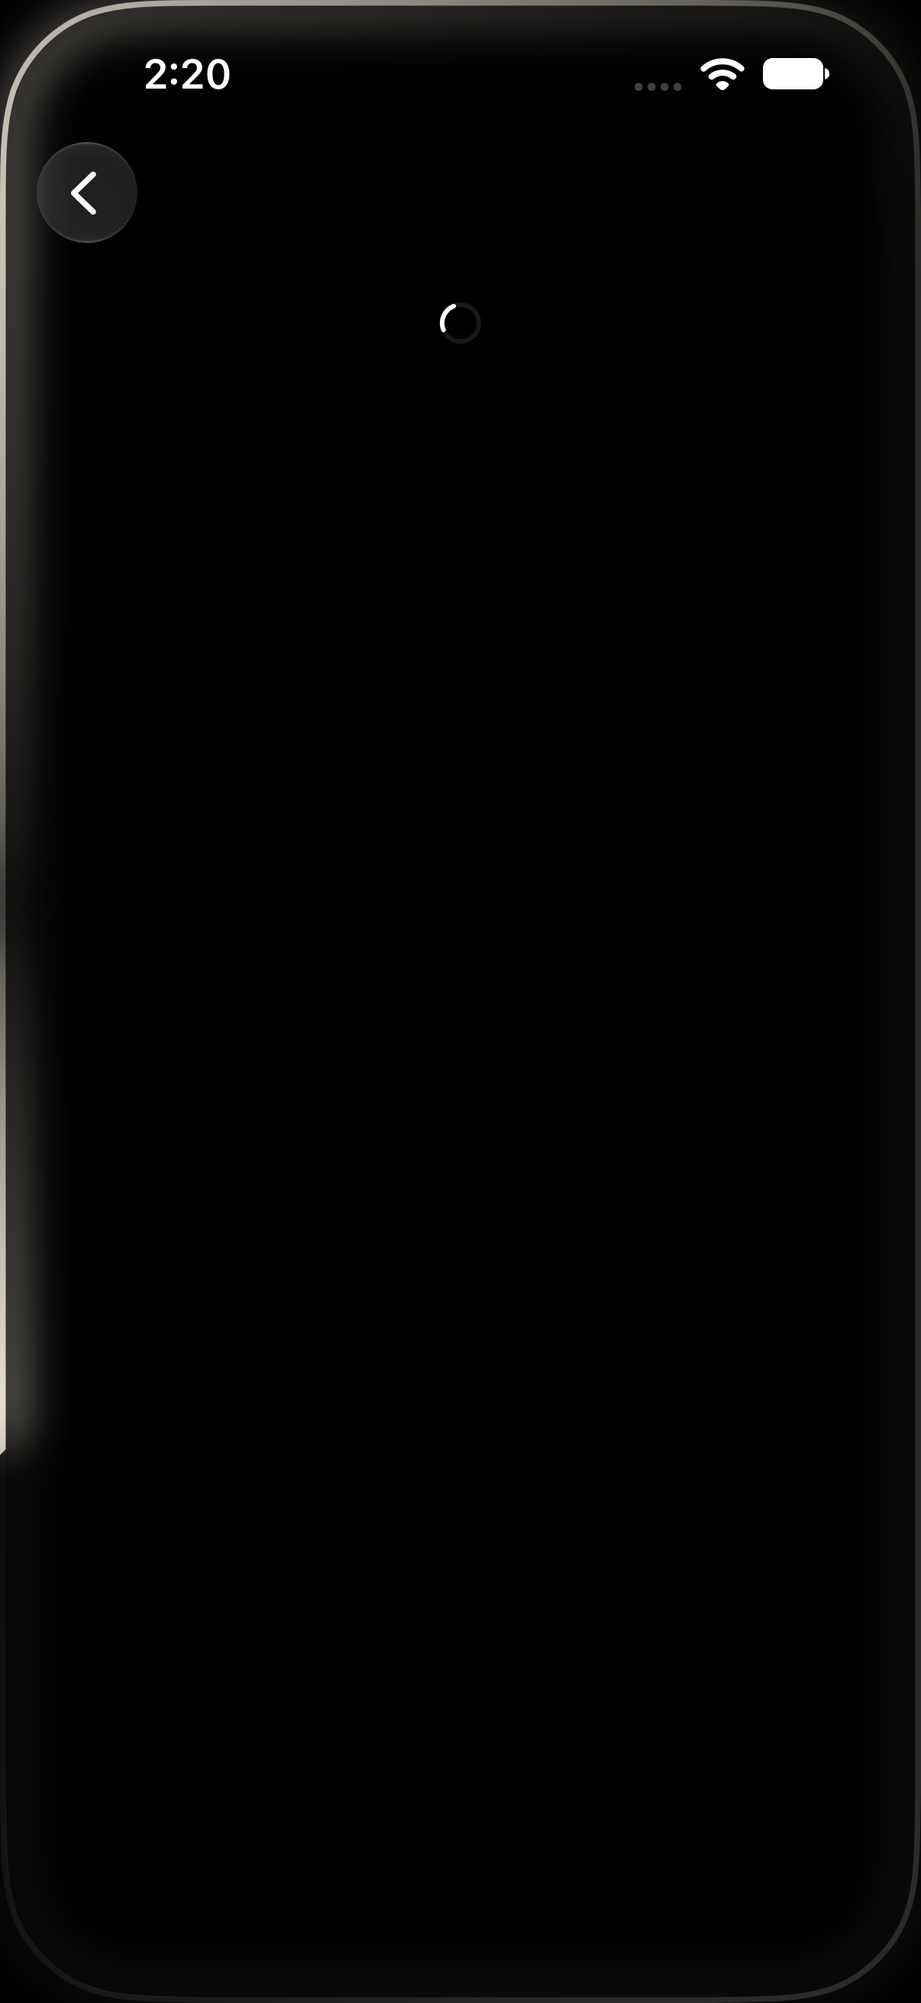
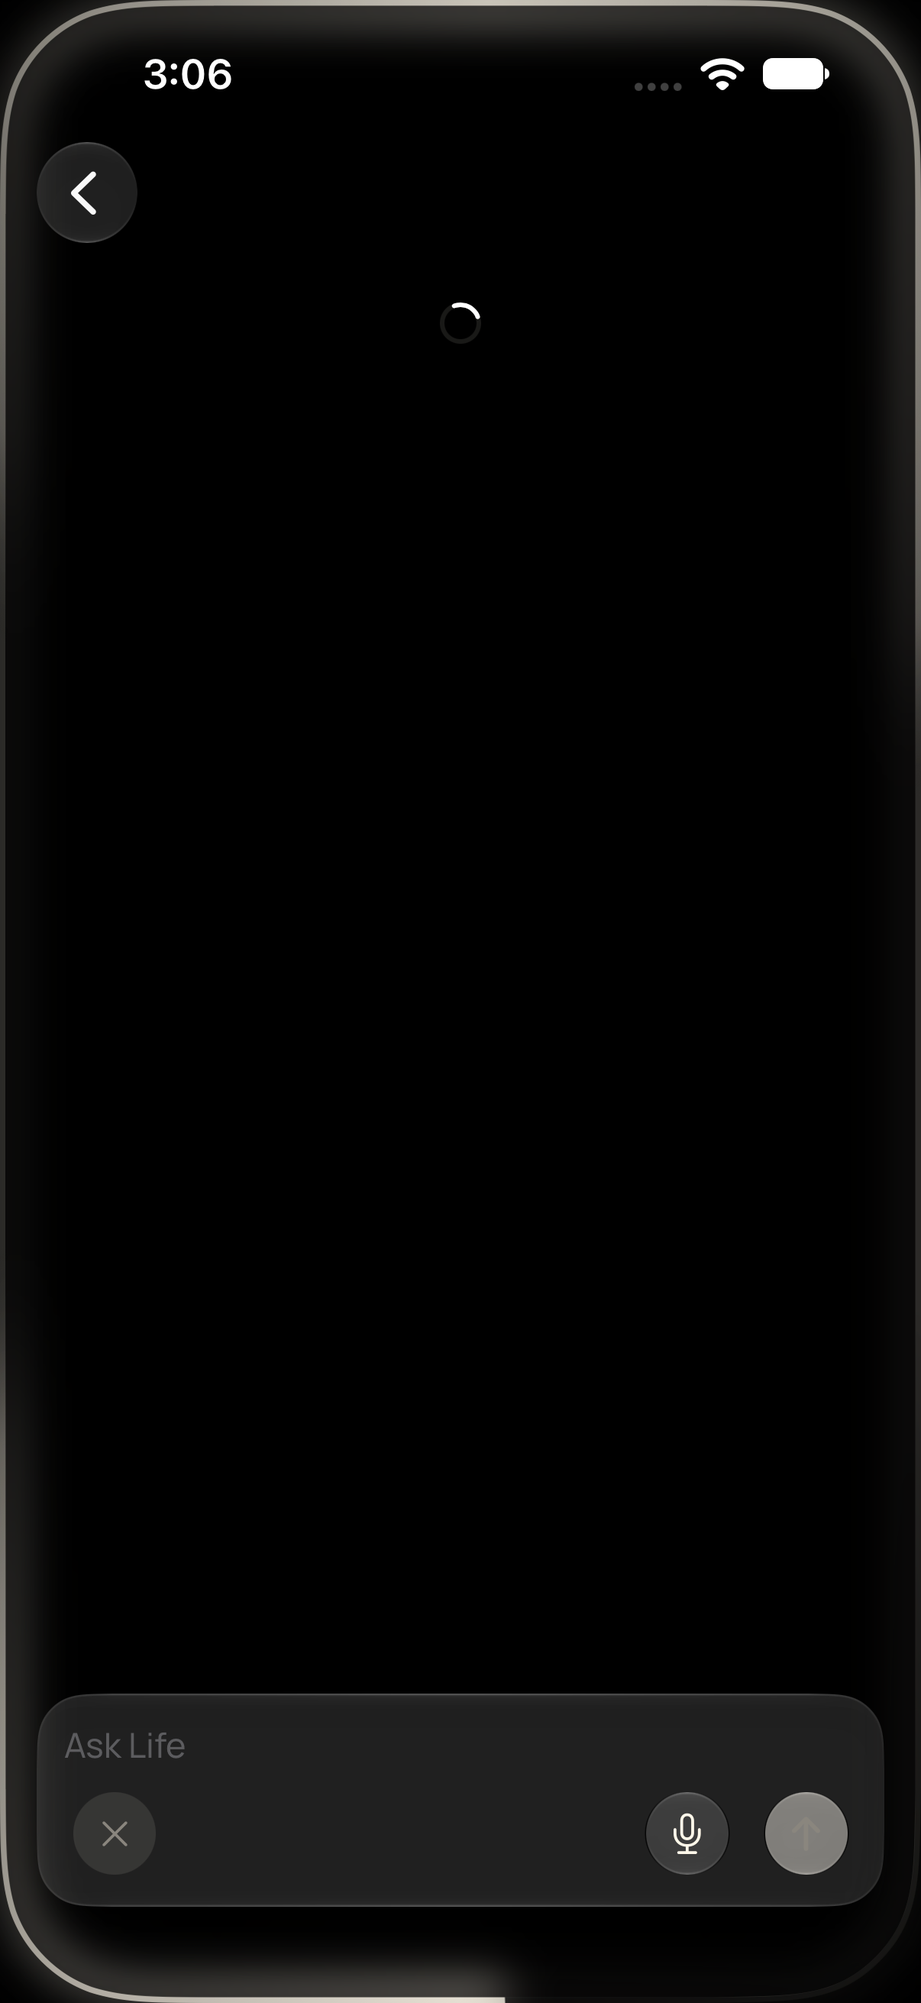
Navigation review: field on every screen, one way to open a profile, asks brought to the bottom, one pairing at a time (LinkAction), Close on Settings

diff --git a/apps/lifelog/apps/ios/Lifelog/RootView.swift b/apps/lifelog/apps/ios/Lifelog/RootView.swift
@@ -18,6 +18,8 @@ struct RootView: View {
     @State private var text = ""
     @State private var isSpeaking = false
     @FocusState private var isAsking: Bool
+    /// A pairing is being checked (`PairSheet`): another pairing link waits for it.
+    @State private var isPairing = false
 
     private enum Sheet: Identifiable {
         case pendant, settings, link(String)
@@ -37,8 +39,8 @@ struct RootView: View {
     private struct Profile: Hashable { let ref: String }
 
     private var thread: LifeThread { life.thread }
-    /// What he sees now, as refs only: the thread is the one screen.
-    private let screen = MainSessionScreen(tab: "thread")
+    /// What he sees now, as refs only: the thread, or the profile pushed over it.
+    private var screen: MainSessionScreen { MainSessionScreen(open: profiles.last?.ref, tab: "thread") }
     private var edge: EdgeState {
         life.isOutOfReach ? .still : thread.isWorking ? .working : isSpeaking ? .speaking : .rest
     }
@@ -59,25 +61,26 @@ struct RootView: View {
                     Notices { sheet = .settings }.padding(.horizontal, Metrics.Spacing.l)
                 }
             }
-            .safeAreaInset(edge: .bottom) {
-                AskField(
-                    text: $text, isWorking: thread.isWorking, isSpeaking: $isSpeaking, isFocused: $isAsking, send: send
-                ) {
-                    Task { await thread.stop() }
-                }
-                .padding(.horizontal, Metrics.Spacing.l).padding(.bottom, Metrics.Spacing.s)
-            }
             .toolbar(.hidden, for: .navigationBar)
             .navigationDestination(for: Profile.self) { ProfileView(ref: $0.ref) }
+        }
+        // The field is on every screen, a pushed profile too: it asks with that screen's refs.
+        .safeAreaInset(edge: .bottom) {
+            AskField(
+                text: $text, isWorking: thread.isWorking, isSpeaking: $isSpeaking, isFocused: $isAsking, send: send
+            ) {
+                Task { await thread.stop() }
+            }
+            .padding(.horizontal, Metrics.Spacing.l).padding(.bottom, Metrics.Spacing.s)
         }
         // The ring is round the whole screen, a pushed profile too; a sheet covers it.
         .overlay { EdgeView(state: edge) }
         .sheet(item: $sheet) { sheet in
             switch sheet {
             case .pendant: PendantView().sheetStack()
-            case .settings: SettingsPage().sheetStack()
+            case .settings: SettingsPage().toolbar { CloseItem { self.sheet = nil } }.sheetStack()
             case .link(let ref): LinkSheet(ref: ref)
-            case .pair(let offer): PairSheet(offer: offer).sheetStack()
+            case .pair(let offer): PairSheet(offer: offer, isPairing: $isPairing).sheetStack()
             }
         }
         .environment(\.windowSizeClass, sizeClass)
@@ -106,16 +109,16 @@ struct RootView: View {
         }
         .onChange(of: life.isOutOfReach) { if !life.isOutOfReach { Task { await life.flushQueued() } } }
         // `lifelog://pair?...` (from the Camera or pasted in Settings) is asked here, never applied alone;
-        // `lifelog://open?ref=...` opens a `life:` ref.
+        // `lifelog://open?ref=...` opens a `life:` ref (`LinkAction`).
         .onOpenURL { url in
-            if let offer = PairOffer(link: url) {
-                sheet = .pair(offer)
-            } else if url.host == "open",
-                let ref = URLComponents(url: url, resolvingAgainstBaseURL: false)?.queryItems?.first(where: {
-                    $0.name == "ref"
-                })?.value
-            {
-                open(ref)
+            switch LinkAction(url: url, isPairLink: PairOffer(link: url) != nil, isPairing: isPairing) {
+            case .pair:
+                guard let offer = PairOffer(link: url) else { return }
+                // Over an open sheet: it goes first, the pairing is presented on the next turn.
+                sheet = nil
+                Task { sheet = .pair(offer) }
+            case .open(let ref): open(ref)
+            case .ignore: break
             }
         }
         // A `life:` link in Life's words (`life-open:`, made by `[Inline].attributed`) opens here, wherever it is tapped.
@@ -158,6 +161,7 @@ struct RootView: View {
     }
 
     private func send() {
+        life.clearFocus()
         thread.ask(text, screen: screen)
         text = ""
     }

diff --git a/apps/lifelog/apps/ios/Lifelog/Thread/AnswerView.swift b/apps/lifelog/apps/ios/Lifelog/Thread/AnswerView.swift
@@ -79,6 +79,13 @@ private struct ListView: View {
     }
 }
 
+extension URL {
+    /// A `life:` ref as a link `RootView` opens (`life-open:`), the one way to open a profile, an ask or a page.
+    static func lifeOpen(_ ref: String) -> URL? {
+        URL(string: "life-open:" + (ref.addingPercentEncoding(withAllowedCharacters: .alphanumerics) ?? ref))
+    }
+}
+
 extension [Inline] {
     /// The runs as one styled text. A web or system link opens; a `life:` name is bold and opens (`life-open:`, handled by `AnswerView`).
     var attributed: AttributedString {
@@ -93,8 +100,7 @@ extension [Inline] {
             case .web(let url), .system(let url): piece.link = url
             case .life(let ref, _):
                 piece.inlinePresentationIntent = .stronglyEmphasized
-                piece.link = URL(
-                    string: "life-open:" + (ref.addingPercentEncoding(withAllowedCharacters: .alphanumerics) ?? ref))
+                piece.link = .lifeOpen(ref)
             case nil: break
             }
             text += piece
@@ -102,25 +108,22 @@ extension [Inline] {
     }
 }
 
-/// What a `life:` link names: a person's profile, else Life's own text of it.
+/// What a `life:` link names that is neither a person nor an ask: Life's own text of it, a sheet (the one exception to
+/// "nothing of Life's opens a screen", beside a picture or a phrase).
 struct LinkSheet: View {
     let ref: String
     @Environment(LifeStore.self) private var life
     @State private var read = ReadState<LifeLinkRead>()
 
     var body: some View {
-        if ref.hasPrefix("person:") {
-            ProfileView(ref: ref).sheetStack()
-        } else {
-            ScrollView {
-                switch read.value {
-                case .person(let name, let line)?: Text([name, line].compactMap { $0 }.joined(separator: "\n"))
-                case .text(let text)?: MarkdownView(text: text)
-                case nil: Spinner().frame(maxWidth: .infinity)
-                }
+        ScrollView {
+            switch read.value {
+            case .person(let name, let line)?: Text([name, line].compactMap { $0 }.joined(separator: "\n"))
+            case .text(let text)?: MarkdownView(text: text)
+            case nil: Spinner().frame(maxWidth: .infinity)
             }
-            .padding(Metrics.Spacing.l).task { await life.fetch(ref) { read.apply($0) } }
-            .presentationDetents([.medium, .large]).presentationDragIndicator(.visible)
         }
+        .padding(Metrics.Spacing.l).task { await life.fetch(ref) { read.apply($0) } }
+        .presentationDetents([.medium, .large]).presentationDragIndicator(.visible)
     }
 }

diff --git a/apps/lifelog/apps/ios/Lifelog/Thread/ThreadView.swift b/apps/lifelog/apps/ios/Lifelog/Thread/ThreadView.swift
@@ -9,6 +9,7 @@ struct ThreadView: View {
     var isPaired = true
     @State private var showsEarlier = false
     @Environment(\.calendar) private var calendar
+    @Environment(LifeStore.self) private var life
 
     private var shown: [ThreadEntry] {
         let from = calendar.date(byAdding: .day, value: -3, to: thread.entries.last?.at ?? .now) ?? .distantPast
@@ -31,6 +32,9 @@ struct ThreadView: View {
                         EntryView(
                             entry: entry, live: thread.live[entry.id], thread: thread, screen: screen, actions: actions)
                     }
+                    // An ask he was sent to (a notification, a link) that is no row above: Life brings it to the bottom,
+                    // unfolded with its answers.
+                    if let ask = life.focused.flatMap(life.ask) { ItemRow(ask: ask).id(ask.ref) }
                     Color.clear.frame(height: 1).id("end")
                 }
                 .padding(.horizontal, Metrics.Spacing.l)
@@ -40,6 +44,7 @@ struct ThreadView: View {
             .defaultScrollAnchor(.bottom, for: .sizeChanges)
             .scrollDismissesKeyboard(.interactively)
             .onChange(of: thread.entries.count) { proxy.scrollTo("end", anchor: .bottom) }
+            .onChange(of: life.focused) { proxy.scrollTo("end", anchor: .bottom) }
             .onChange(of: thread.live) { proxy.scrollTo("end", anchor: .bottom) }
         }
     }

diff --git a/apps/lifelog/apps/ios/Lifelog/Items/ItemsBlock.swift b/apps/lifelog/apps/ios/Lifelog/Items/ItemsBlock.swift
@@ -15,11 +15,11 @@ struct ItemsBlock: View {
     }
 }
 
-/// Life's `pictures` block: the people and organizations its refs name, as faces that open their profile.
+/// Life's `pictures` block: the people and organizations its refs name, as faces that open their profile (`RootView.open`, as a `life:` link does).
 struct PicturesBlock: View {
     let refs: [String]
     @Environment(LifeStore.self) private var life
-    @State private var opened: String?
+    @Environment(\.openURL) private var openURL
 
     var body: some View {
         ScrollView(.horizontal, showsIndicators: false) {
@@ -27,7 +27,7 @@ struct PicturesBlock: View {
                 ForEach(refs, id: \.self) { ref in
                     if let party = life.parties.byRef[ref] {
                         Button {
-                            opened = ref
+                            if let url = URL.lifeOpen(ref) { openURL(url) }
                         } label: {
                             VStack(spacing: Metrics.Spacing.xs) {
                                 Face(party: party, size: 56)
@@ -40,7 +40,6 @@ struct PicturesBlock: View {
                 }
             }
         }
-        .sheet(item: $opened) { ref in ProfileView(ref: ref).sheetStack() }
     }
 }
 

diff --git a/apps/lifelog/apps/ios/Kit/Sources/Incidents/LinkAction.swift b/apps/lifelog/apps/ios/Kit/Sources/Incidents/LinkAction.swift
@@ -1,0 +1,24 @@
+import Foundation
+
+/// What a link opened in the app does: a pairing link is asked, `lifelog://open?ref=` opens a `life:` ref, anything
+/// else, or a pairing link while one is in flight (one pairing at a time), does nothing.
+public enum LinkAction: Equatable, Sendable {
+    case pair
+    case open(String)
+    case ignore
+
+    /// `isPairLink`: the link names a server or a Life to pair with (the app parses it); `isPairing`: a pairing is
+    /// being checked now.
+    public init(url: URL, isPairLink: Bool, isPairing: Bool) {
+        if isPairLink {
+            self = isPairing ? .ignore : .pair
+        } else if url.host == "open",
+            let ref = URLComponents(url: url, resolvingAgainstBaseURL: false)?.queryItems?
+                .first(where: { $0.name == "ref" })?.value, !ref.isEmpty
+        {
+            self = .open(ref)
+        } else {
+            self = .ignore
+        }
+    }
+}

diff --git a/apps/lifelog/apps/ios/Kit/Tests/IncidentsTests/LinkActionTests.swift b/apps/lifelog/apps/ios/Kit/Tests/IncidentsTests/LinkActionTests.swift
@@ -1,0 +1,17 @@
+import Foundation
+import Testing
+
+@testable import Incidents
+
+@Test func aPairingLinkIsAskedAndASecondOneWaitsForTheFirst() {
+    let pair = URL(string: "lifelog://pair?url=https://a.test&token=t")!
+    #expect(LinkAction(url: pair, isPairLink: true, isPairing: false) == .pair)
+    #expect(LinkAction(url: pair, isPairLink: true, isPairing: true) == .ignore)
+}
+
+@Test func anOpenLinkNamesItsRefAndOtherLinksDoNothing() {
+    let open = URL(string: "lifelog://open?ref=person:ana")!
+    #expect(LinkAction(url: open, isPairLink: false, isPairing: true) == .open("person:ana"))
+    #expect(LinkAction(url: URL(string: "lifelog://open")!, isPairLink: false, isPairing: false) == .ignore)
+    #expect(LinkAction(url: URL(string: "lifelog://other")!, isPairLink: false, isPairing: false) == .ignore)
+}

diff --git a/apps/lifelog/apps/ios/Lifelog/Settings/PairSheet.swift b/apps/lifelog/apps/ios/Lifelog/Settings/PairSheet.swift
@@ -32,6 +32,7 @@ extension URL {
 /// checked before it is kept and Life's tokens are kept once it approved, so a failed pairing leaves the old one working.
 struct PairSheet: View {
     let offer: PairOffer
+    @Binding var isPairing: Bool
     @Environment(SyncStore.self) private var sync
     @Environment(LifeStore.self) private var life
     @Environment(\.dismiss) private var dismiss
@@ -65,6 +66,8 @@ struct PairSheet: View {
         .background(Palette.sheet)
         .presentationBackground(Palette.sheet)
         .interactiveDismissDisabled(phase == .pairing)
+        .onChange(of: phase) { isPairing = phase == .pairing }
+        .onDisappear { isPairing = false }
         .accessibilityIdentifier("pair.sheet")
     }
 

diff --git a/docs/design/chat-first/2026-11-26-nav-review.md b/docs/design/chat-first/2026-11-26-nav-review.md
@@ -1,0 +1,75 @@
+# Navigation review, PR #1402 (v4.1 NAV)
+
+26 Nov 2026, a fresh reviewer. Built the PR's head (`615e4e35b`) for a clone of the iPhone 18 Pro simulator (iOS 27.2),
+paired it with the made-up demo Life (`scripts/demo.ts`, loopback, its watcher only), and drove it with agent-device.
+Judged against `prototypes/shell.html` (side-panel scenarios clicked), `2026-11-23-current-spec.md`, `docs/brand.md` and
+Apple's navigation patterns. Screenshots are in `screens-nav-review/`.
+
+**Verdict: fail**, on three must-fix items. The base holds: the thread is the root of a `NavigationStack`, a person link
+pushes a profile with the system's glass Back, one `RootView.Sheet` replaces another, the field rides the keyboard,
+and the edge overlays the stack.
+
+## Must-fix
+
+1. **A pushed profile has no field.** `AskField` is the root's `safeAreaInset`, so the profile pushed over it shows
+   none. The spec says "On every screen: the edge, the field at the bottom". The prototype's profile keeps the field
+   ("What has he…") under the profile, with the glass back in place of the two round buttons. Put the field (and the
+   inset) outside the `NavigationStack`, or on the destination too, so it stays.
+   `screens-nav-review/03-deeplink-profile-pushed.png` against `screens-nav-review/00-prototype-profile.jpg`.
+2. **A face in a `pictures` block still opens the profile as its own sheet.** `PicturesBlock` (`Items/ItemsBlock.swift`)
+   keeps `@State opened` and `.sheet { ProfileView(ref:).sheetStack() }`. So one person opens two ways: a `life:` link
+   pushes, a face presents. That breaks "one sheet at a time" (this sheet sits outside `RootView.Sheet`) and the spec's
+   "a tap opens their profile over the thread". Route the face's tap through the same `open(ref)` (`openURL` with
+   `life-open:`, as `[Inline].attributed` does). Code only: no Life answer with a pictures block could be made without
+   a live agent. Compare `screens-nav-review/03-deeplink-profile-pushed.png`.
+3. **A notification tap or an ask link lands on nothing when the ask isn't already a row in the thread.** `open(ref)`
+   and the notification route both end in `life.focus`, which only sets `focused`. An `ItemRow` unfolds only if it is
+   on screen (`ItemRow.onChange(of: life.focused)`), and nothing scrolls to it either. The spec says "Opened without
+   answering, Life brings the ask to the bottom with its answers." On the demo, `lifelog://open?ref=matter_…` (an ask
+   ref in the demo's inbox) closed the open Settings sheet and then showed nothing, from the thread too. Bring the ask to
+   the bottom (or at least scroll to it and unfold it) when it is focused.
+   `screens-nav-review/09-matter-link-over-settings-shows-nothing.png`,
+   `screens-nav-review/10-matter-link-from-thread-shows-nothing.png`.
+
+## Should-fix
+
+1. **Settings has no Close; the Pendant sheet does.** Both are `RootView.Sheet`s, but only `PendantView` has a
+   `CloseItem`. A drag-down still closes Settings. Give every full-height sheet the same Close, so each sheet closes the
+   same way. `screens-nav-review/08-settings-sheet.png`, `screens-nav-review/07-pendant-sheet.png`.
+2. **A non-person `life:` link opens a page sheet**: an observation shows Life's raw text, refs and "its evidence:
+   read_observation …" included. The spec says `life:` names unfold, and "nothing of Life's opens a screen but a picture
+   or a phrase", "No page of its own". The behaviour was already there; this PR moves it to the root, so the decision is
+   now in one place. Decide what a matter or fact link does in the thread (unfold, or Life's answer as his ask), or at
+   least hide the refs. `screens-nav-review/11-observation-link-sheet.png`.
+3. **The phrase screen is a `fullScreenCover` inside a block**, outside `RootView.Sheet`, and it covers the edge. The
+   spec allows full screen there, but the comment "one sheet at a time" is then not quite true. Either name it as the
+   exception in `apps/lifelog/apps/ios/AGENTS.md`, or route it through the root. (Not reached: no phrase block without a
+   live agent.)
+
+## Nit
+
+1. `LinkSheet`'s `person:` branch (`ProfileView(...).sheetStack()`) can no longer be reached, since `open(ref)` pushes
+   every `person:` ref. Delete it. `screens-nav-review/12-person-link-over-sheet.png`.
+
+## Seen working
+
+- Thread root, field pinned at the bottom, two round buttons: `01-thread-root.png`, `02-count-answer.png`.
+- A person deep link pushes the profile with the system's glass Back; Back returns to the thread:
+  `03-deeplink-profile-pushed.png`, `05-back-to-thread.png`.
+- A person link with a sheet up closes the sheet and pushes the profile: `12-person-link-over-sheet.png`.
+- The Pendant context menu, then Settings: `06-pendant-context-menu.png`, `08-settings-sheet.png`.
+- The keyboard: the field rides it, the thread's bottom stays above the field, and a drag on the thread puts it away:
+  `14-keyboard-up.png`, `15-keyboard-down-by-drag.png`.
+
+## Not reached
+
+- **A long thread, a `life:` link in Life's words, faces in a pictures block, the phrase screen and its Close.** Each
+  needs an answer from Life's main session, a real agent turn. The count's tap tried one, the demo's desk started a
+  Claude session for it, and it answered "I couldn't answer that." I stopped the desk instead of spending more turns.
+- **The edge swipe and drag-to-dismiss.** agent-device's swipes, `left-edge` and slow pans moved in-app scroll views
+  (the keyboard drag worked) but no system gesture: the edge pan left the profile up (`04-edge-swipe-not-driven.png`)
+  and a pan down left the Pendant sheet up. So this is unverified, not failed. The profile shows the system navigation
+  bar, so the interactive pop should be there.
+- **A notification tap.** `simctl push` was refused on the fresh clone ("Source is not authorized"), and simctl can't
+  grant notifications. The code clears the sheet and the stack (`toThread`) before `focus(pushId:)`; must-fix 3 applies
+  to it as well.

diff --git a/apps/lifelog/apps/ios/AGENTS.md b/apps/lifelog/apps/ios/AGENTS.md
@@ -4,7 +4,7 @@
 Swift package with everything that doesn't need UIKit, so it builds and tests on the Mac in seconds. `Watch/` and
 `Widgets/` are the glances; `Shared/` holds code and copy that the app and its extensions share. `project.yml`
 generates the gitignored `.xcodeproj`.
-The app is a bare shell until the thread (P2): `RootView` is a `NavigationStack` whose root is the thread (field at the bottom, riding the keyboard; the edge round the whole screen). A person's `life:` link pushes their profile (system Back and edge swipe; one level deep), any other `life:` ref and the Pendant, Settings and pairing are the one sheet at a time (`RootView.Sheet`), a tapped notification or `lifelog://open?ref=` lands back on the thread. `life-open:` links are handled once, at `RootView`. The old screens and the Debug fixture are cut. Sheets are centred, the system's default: no `presentationPlacement` (`.leading` is missing on iOS 27.0 and crashes). Actions go through `LifeStore`'s `ActionState`. Manrope is the one font (`DesignSystem/Typography.swift`). `Shared/Palette.swift` is the phone's one copy of Life's brand (`assets/brand/tokens.css`), checked by `scripts/brand.test.ts`: no colour literal elsewhere, except a draft's chat strip, drawn in its platform's own colours (`ChatLook` in `DesignSystem/DraftBlock.swift`). `docs/architecture.md` names every store and owner and says where a new screen or derived value goes.
+The app is a bare shell until the thread (P2): `RootView` is a `NavigationStack` whose root is the thread (field at the bottom, riding the keyboard; the edge round the whole screen). A person's `life:` link pushes their profile (system Back and edge swipe; one level deep), any other `life:` ref and the Pendant, Settings and pairing are the one sheet at a time (`RootView.Sheet`), a tapped notification or `lifelog://open?ref=` lands back on the thread. `life-open:` links are handled once, at `RootView` (a face in a pictures block opens the same way); the field is the stack's bottom inset, so it stays on a pushed profile and asks with that screen's refs; an ask he is sent to is brought to the thread's bottom, unfolded. A phrase's full screen and a non-person, non-ask `life:` page are the only screens outside `RootView.Sheet`. `LinkAction` (Kit) decides what a link does: one pairing at a time. The old screens and the Debug fixture are cut. Sheets are centred, the system's default: no `presentationPlacement` (`.leading` is missing on iOS 27.0 and crashes). Actions go through `LifeStore`'s `ActionState`. Manrope is the one font (`DesignSystem/Typography.swift`). `Shared/Palette.swift` is the phone's one copy of Life's brand (`assets/brand/tokens.css`), checked by `scripts/brand.test.ts`: no colour literal elsewhere, except a draft's chat strip, drawn in its platform's own colours (`ChatLook` in `DesignSystem/DraftBlock.swift`). `docs/architecture.md` names every store and owner and says where a new screen or derived value goes.
 
 Every free-text field is a `DictationField` (`DesignSystem/DictationField.swift`): typing, two glass discs, the microphone and, with a single submit, Send. A tap on the microphone talks until the next tap, a hold talks while held, a hold slid up sends (Kit's `DictationPress`); each run is one `DictationCapture`, driven by Kit's `Dictation`; no screen draws a `TextField` of its own. The spec's components live in `Lifelog/DesignSystem/Pieces.swift` and screens draw none of their own; one radius per job (`Metrics.Radius`). `scripts/design-system.test.ts` counts what screens still draw by hand; its caps only go down.
 
